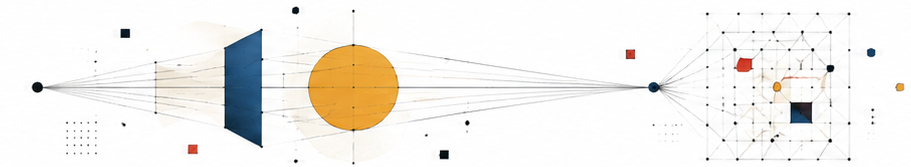
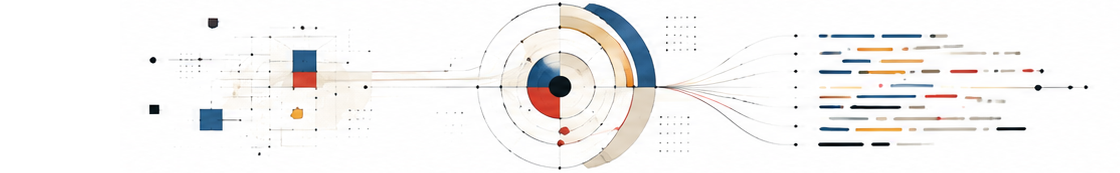
wip

diff --git a/public/blog/context-management/index.html b/public/blog/context-management/index.html
@@ -1,5 +1,5 @@
 <!DOCTYPE html>
-<!-- code-from-spec: ROOT/html/sections/blog/articles/context-management@nwhs7QLkTfn2V70ybnk8BWBZnOM -->
+<!-- code-from-spec: ROOT/html/sections/blog/articles/context-management@qAa7uG3AmUtxyenuCWx9n0pF0rk -->
 <html lang="en">
 <head>
   <meta charset="utf-8">
@@ -17,6 +17,7 @@
       <nav>
         <a href="/rationale">Rationale</a>
         <a href="/blog">Blog</a>
+        <a href="/license">License</a>
         <a href="https://github.com/CodeFromSpec" target="_blank" rel="noopener">GitHub</a>
       </nav>
     </div>
@@ -24,7 +25,7 @@
   <main>
     <div class="container">
       <h1>Context management by construction</h1>
-      <time datetime="2026-06-08">June 8, 2026</time>
+      <p>June 8, 2026</p>
 
       <section>
         <h2>The context problem</h2>
@@ -82,17 +83,8 @@
   </main>
   <footer>
     <div class="container">
-      <nav>
-        <a href="/">Home</a>
-        <a href="/rationale">Rationale</a>
-        <a href="/blog">Blog</a>
-        <a href="/license">License</a>
-        <a href="https://github.com/CodeFromSpec" target="_blank" rel="noopener">GitHub</a>
-      </nav>
-      <div class="footer-meta">
-        <span>Contact: <a href="mailto:gustavo@codefromspec.com">gustavo@codefromspec.com</a></span>
-        <span>Licensed under <a href="/license">CC BY 4.0</a></span>
-      </div>
+      <span>Contact: <a href="mailto:gustavo@codefromspec.com">gustavo@codefromspec.com</a></span>
+      <span>Licensed under <a href="/license">CC BY 4.0</a></span>
     </div>
   </footer>
 </body>

diff --git a/public/blog/index.html b/public/blog/index.html
@@ -1,5 +1,5 @@
 <!DOCTYPE html>
-<!-- code-from-spec: ROOT/html/sections/blog/index@KiDQsNz0DsN0uIHSlatxgnbLZ8Y -->
+<!-- code-from-spec: ROOT/html/sections/blog/index@YVbWpV3oS58SD5q3In9OD2lQiAg -->
 <html lang="en">
 <head>
   <meta charset="utf-8">
@@ -17,6 +17,7 @@
       <nav>
         <a href="/rationale">Rationale</a>
         <a href="/blog">Blog</a>
+        <a href="/license">License</a>
         <a href="https://github.com/CodeFromSpec" target="_blank" rel="noopener">GitHub</a>
       </nav>
     </div>
@@ -35,17 +36,8 @@
   </main>
   <footer>
     <div class="container">
-      <nav>
-        <a href="/">Home</a>
-        <a href="/rationale">Rationale</a>
-        <a href="/blog">Blog</a>
-        <a href="/license">License</a>
-        <a href="https://github.com/CodeFromSpec" target="_blank" rel="noopener">GitHub</a>
-      </nav>
-      <div class="footer-meta">
-        <span>Contact: <a href="mailto:gustavo@codefromspec.com">gustavo@codefromspec.com</a></span>
-        <span>Licensed under <a href="/license">CC BY 4.0</a></span>
-      </div>
+      <span>Contact: <a href="mailto:gustavo@codefromspec.com">gustavo@codefromspec.com</a></span>
+      <span>Licensed under <a href="/license">CC BY 4.0</a></span>
     </div>
   </footer>
 </body>

diff --git a/public/rationale/index.html b/public/rationale/index.html
@@ -1,5 +1,5 @@
 <!DOCTYPE html>
-<!-- code-from-spec: ROOT/html/sections/rationale@iRrDBzIgEJaHbJl5B9IlcNag4v0 -->
+<!-- code-from-spec: ROOT/html/sections/rationale@0btCGnrIyXk_NsxpkHxEuz9X1KQ -->
 <html lang="en">
 <head>
   <meta charset="utf-8">
@@ -17,6 +17,7 @@
       <nav>
         <a href="/rationale">Rationale</a>
         <a href="/blog">Blog</a>
+        <a href="/license">License</a>
         <a href="https://github.com/CodeFromSpec" target="_blank" rel="noopener">GitHub</a>
       </nav>
     </div>
@@ -166,17 +167,8 @@
   </main>
   <footer>
     <div class="container">
-      <nav>
-        <a href="/">Home</a>
-        <a href="/rationale">Rationale</a>
-        <a href="/blog">Blog</a>
-        <a href="/license">License</a>
-        <a href="https://github.com/CodeFromSpec" target="_blank" rel="noopener">GitHub</a>
-      </nav>
-      <div class="footer-meta">
-        <span>Contact: <a href="mailto:gustavo@codefromspec.com">gustavo@codefromspec.com</a></span>
-        <span>Licensed under <a href="/license">CC BY 4.0</a></span>
-      </div>
+      <span>Contact: <a href="mailto:gustavo@codefromspec.com">gustavo@codefromspec.com</a></span>
+      <span>Licensed under <a href="/license">CC BY 4.0</a></span>
     </div>
   </footer>
 </body>

diff --git a/public/license/index.html b/public/license/index.html
@@ -1,5 +1,5 @@
 <!DOCTYPE html>
-<!-- code-from-spec: ROOT/html/sections/license@tIcbAE2JHlTpO-JP_jzI-2q26x0 -->
+<!-- code-from-spec: ROOT/html/sections/license@qaQ1NqSa2Wke-P4obihZ5vgbzBA -->
 <html lang="en">
 <head>
   <meta charset="utf-8">
@@ -17,6 +17,7 @@
       <nav>
         <a href="/rationale">Rationale</a>
         <a href="/blog">Blog</a>
+        <a href="/license">License</a>
         <a href="https://github.com/CodeFromSpec" target="_blank" rel="noopener">GitHub</a>
       </nav>
     </div>
@@ -53,17 +54,8 @@
   </main>
   <footer>
     <div class="container">
-      <nav>
-        <a href="/">Home</a>
-        <a href="/rationale">Rationale</a>
-        <a href="/blog">Blog</a>
-        <a href="/license">License</a>
-        <a href="https://github.com/CodeFromSpec" target="_blank" rel="noopener">GitHub</a>
-      </nav>
-      <div class="footer-meta">
-        <span>Contact: <a href="mailto:gustavo@codefromspec.com">gustavo@codefromspec.com</a></span>
-        <span>Licensed under <a href="/license">CC BY 4.0</a></span>
-      </div>
+      <span>Contact: <a href="mailto:gustavo@codefromspec.com">gustavo@codefromspec.com</a></span>
+      <span>Licensed under <a href="/license">CC BY 4.0</a></span>
     </div>
   </footer>
 </body>

diff --git a/public/index.html b/public/index.html
@@ -1,5 +1,5 @@
 <!DOCTYPE html>
-<!-- code-from-spec: ROOT/html/home@YSlQrvmmfSc7X8nmYgoxlrXWRuM -->
+<!-- code-from-spec: ROOT/html/home@WSdgnK5Y3y1tPyWjmv82v_SduuQ -->
 <html lang="en">
 <head>
   <meta charset="utf-8">
@@ -17,6 +17,7 @@
       <nav>
         <a href="/rationale">Rationale</a>
         <a href="/blog">Blog</a>
+        <a href="/license">License</a>
         <a href="https://github.com/CodeFromSpec" target="_blank" rel="noopener">GitHub</a>
       </nav>
     </div>
@@ -104,17 +105,8 @@
   </main>
   <footer>
     <div class="container">
-      <nav>
-        <a href="/">Home</a>
-        <a href="/rationale">Rationale</a>
-        <a href="/blog">Blog</a>
-        <a href="/license">License</a>
-        <a href="https://github.com/CodeFromSpec" target="_blank" rel="noopener">GitHub</a>
-      </nav>
-      <div class="footer-meta">
-        <span>Contact: <a href="mailto:gustavo@codefromspec.com">gustavo@codefromspec.com</a></span>
-        <span>Licensed under <a href="/license">CC BY 4.0</a></span>
-      </div>
+      <span>Contact: <a href="mailto:gustavo@codefromspec.com">gustavo@codefromspec.com</a></span>
+      <span>Licensed under <a href="/license">CC BY 4.0</a></span>
     </div>
   </footer>
 </body>

diff --git a/public/css/default.css b/public/css/default.css
@@ -1,4 +1,4 @@
-/* code-from-spec: ROOT/design/default/stylesheet@ZbqrYBtL83aa8G2aasFNmLuy02c */
+/* code-from-spec: ROOT/design/default/stylesheet@Yl3Nk1XLFFWut2LLVaNlQ6YeQI4 */
 
 .container {
   max-width: 720px;
@@ -45,25 +45,13 @@ footer {
 
 footer .container {
   display: flex;
-  flex-direction: column;
-  gap: 8px;
-}
-
-footer nav {
-  display: flex;
-  flex-wrap: wrap;
-  gap: 16px;
-}
-
-.footer-meta {
-  display: flex;
   flex-wrap: wrap;
   gap: 16px;
 }
 
 main {
-  padding-top: 10px;
-  padding-bottom: 10px;
+  padding-top: 20px;
+  padding-bottom: 20px;
 }
 
 h1 + p {
@@ -126,7 +114,7 @@ img {
   }
 
   main {
-    padding-top: 10px;
+    padding-top: 20px;
     padding-bottom: 0;
   }
 }

diff --git a/public/css/baseline.css b/public/css/baseline.css
@@ -1,4 +1,4 @@
-/* code-from-spec: ROOT/design/baseline@hGOmydZ3eba9B2Kl2lUZ4dQ_2As */
+/* code-from-spec: ROOT/design/baseline@vDBi6JDOWhaEiBgQrh_JnLhv8Vw */
 
 :root {
   --color-text: #1a1a1a;
